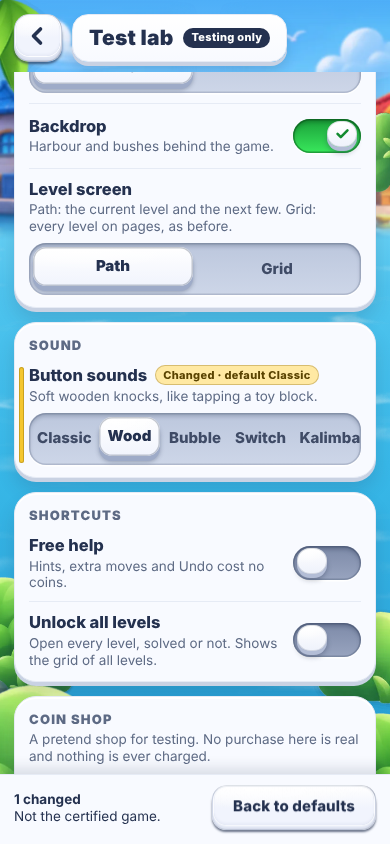
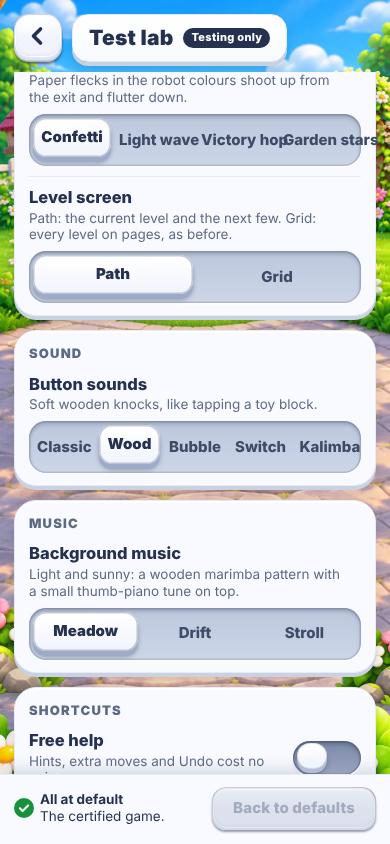
test: browser tests for the garden as the main theme
Robot celebrations, pop-up positions and the shop loop pick the robot
theme as a player would (same pop-ups and buttons in every theme; the
robot board draws faster in the software test browser). The level path
check expects the garden's done step; two new tests: the garden plays its
own celebration by default, a lab choice overrides it.

Design: design/themes.md

Claude-Session: https://claude.ai/code/session_01PBSmYtBD6kmydKTzDVzXTr

diff --git a/tests/integration/celebration.spec.ts b/tests/integration/celebration.spec.ts
@@ -14,8 +14,12 @@ const config = JSON.parse(readFileSync('data/config.json', 'utf8'));
 const build = pathToFileURL(resolve('dist-single/index.html')).href;
 const VARIANTS = ['confetti', 'wave', 'hop', 'garden'] as const;
 
-/** Opens the build with a fresh save that has `lab` set, and collects every page error and console error. */
-async function open(page: Page, lab: Record<string, unknown> = {}): Promise<string[]> {
+/**
+ * Opens the build with a fresh save that has `lab` set, and collects every page error and console error.
+ * The robot celebrations are checked in the robot theme, picked as a player would (the garden, the
+ * main theme, plays its own celebration unless the lab picks another: see the garden test below).
+ */
+async function open(page: Page, lab: Record<string, unknown> = {}, theme: 'robot' | 'garden' = 'robot'): Promise<string[]> {
   const errors: string[] = [];
   page.on('pageerror', (e) => errors.push(e.message));
   page.on('console', (m) => {
@@ -25,7 +29,7 @@ async function open(page: Page, lab: Record<string, unknown> = {}): Promise<stri
     ([save]) => {
       if (!localStorage.getItem('turnflock.save')) localStorage.setItem('turnflock.save', save);
     },
-    [JSON.stringify({ version: 5, best: {}, coins: config.coins.start, paid: {}, settings: {}, lab })],
+    [JSON.stringify({ version: 9, best: {}, coins: config.coins.start, paid: {}, economy: 2, settings: { theme, themeChosen: true }, lab })],
   );
   await page.goto(build);
   await expect.poll(() => page.evaluate(() => typeof window.turnflock?.snapshot)).toBe('function');
@@ -119,5 +123,19 @@ test('test lab: "Win celebration" offers the four variants (garden stars include
   await page.reload();
   await expect.poll(() => page.evaluate(() => typeof window.turnflock?.snapshot)).toBe('function');
   expect((await snap(page)).lab.celebration).toBe('hop');
+  expect(errors).toEqual([]);
+});
+
+test('win celebration: the garden plays its own celebration by default, and the lab still overrides it', async ({ page }) => {
+  const errors = await open(page, {}, 'garden');
+  await winLevelOne(page);
+  await expect.poll(async () => (await snap(page)).celebration, { timeout: 15000 }).toMatchObject({ variant: 'garden', perfect: true });
+  expect(errors).toEqual([]);
+});
+
+test('win celebration: in the garden a celebration picked in the lab plays instead', async ({ page }) => {
+  const errors = await open(page, { celebration: 'hop' }, 'garden');
+  await winLevelOne(page);
+  await expect.poll(async () => (await snap(page)).celebration, { timeout: 15000 }).toMatchObject({ variant: 'hop' });
   expect(errors).toEqual([]);
 });

diff --git a/tests/integration/boot.spec.ts b/tests/integration/boot.spec.ts
@@ -125,8 +125,8 @@ test('Levels, Level, Win, Next: no dead ends, and progress survives a reload', a
   await expect(page.locator('#levelName')).toHaveText(levels[1].name);
   await expect(page.locator('#levelCoins .tf-coin-amount')).toHaveText(String(config.coins.start + perfectWin));
   await page.click('#levelBack');
-  // The completed level is gone from the path; the next one is the current step.
-  await expect(page.locator('#node-1')).toHaveCount(0);
+  // The garden's path (the main theme) keeps the completed level below as a done step; the next one is the current step.
+  await expect(page.locator('#node-1')).toHaveClass(/is-passed/);
   await expect(page.locator('#node-2')).toHaveClass(/is-current/);
   await expect(page.locator('#node-2')).toBeEnabled();
   await expect(page.locator('#node-3')).toHaveClass(/is-locked/);

diff --git a/tests/integration/popup-position.spec.ts b/tests/integration/popup-position.spec.ts
@@ -67,7 +67,9 @@ async function openLevel(page: Page, index: number): Promise<string[]> {
     ([save]) => {
       if (!localStorage.getItem('turnflock.save')) localStorage.setItem('turnflock.save', save);
     },
-    [JSON.stringify({ version: 5, best, coins: config.coins.start, paid: {}, settings: {}, lab: {} })],
+    // Pop-ups and helper buttons are the same in every theme (owner: buttons stay the robot theme's); the
+    // robot theme is picked because its board draws much faster in the software-rendered test browser.
+    [JSON.stringify({ version: 9, best, coins: config.coins.start, paid: {}, economy: 2, settings: { theme: 'robot', themeChosen: true }, lab: {} })],
   );
   await page.goto(build);
   await expect.poll(() => page.evaluate(() => typeof window.turnflock?.snapshot)).toBe('function');

diff --git a/tests/integration/shop.spec.ts b/tests/integration/shop.spec.ts
@@ -25,7 +25,9 @@ async function open(page: Page, coins: number, lab: Record<string, unknown> = {}
     ([save]) => {
       if (!localStorage.getItem('turnflock.save')) localStorage.setItem('turnflock.save', save);
     },
-    [JSON.stringify({ version: 6, best: {}, coins, paid: {}, settings: {}, lab })],
+    // The shop and its buttons are the same in every theme; the robot theme is picked because its board
+    // draws much faster in the software-rendered test browser (design/themes.md).
+    [JSON.stringify({ version: 9, best: {}, coins, paid: {}, economy: 2, settings: { theme: 'robot', themeChosen: true }, lab })],
   );
   await page.goto(build);
   await expect.poll(() => page.evaluate(() => typeof window.turnflock?.snapshot)).toBe('function');
